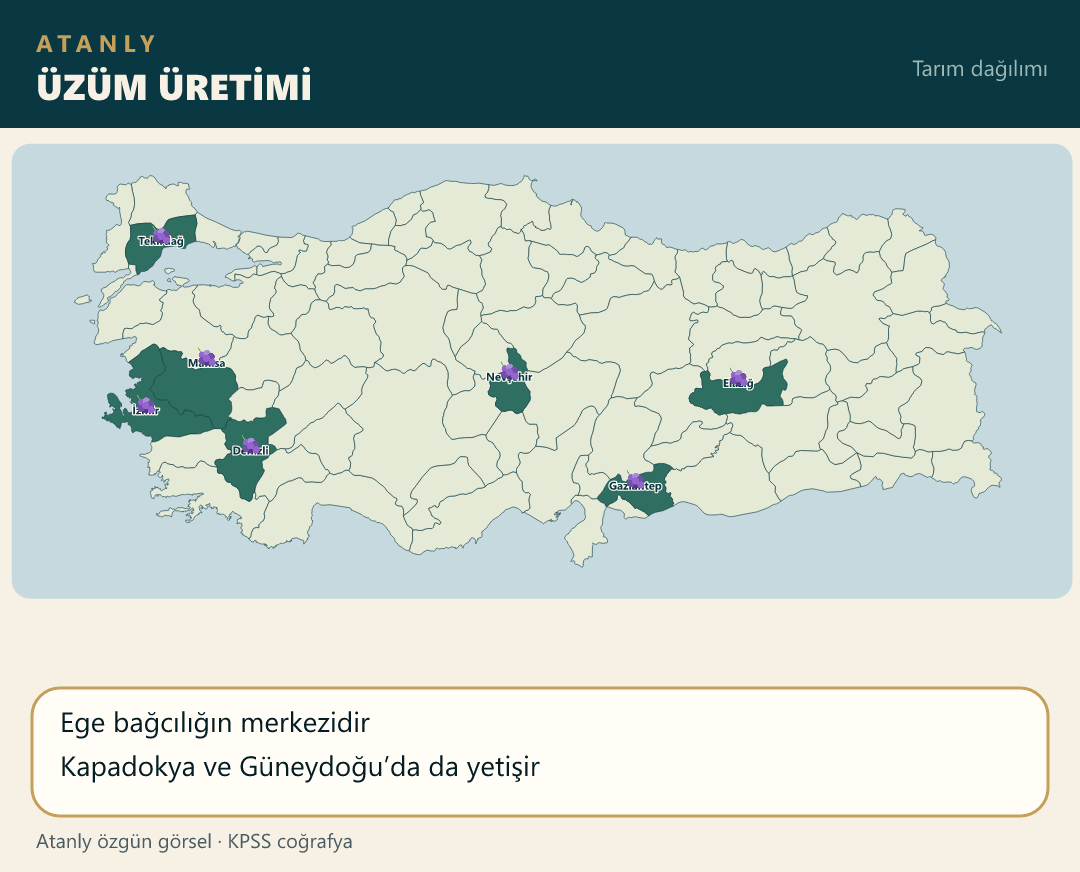
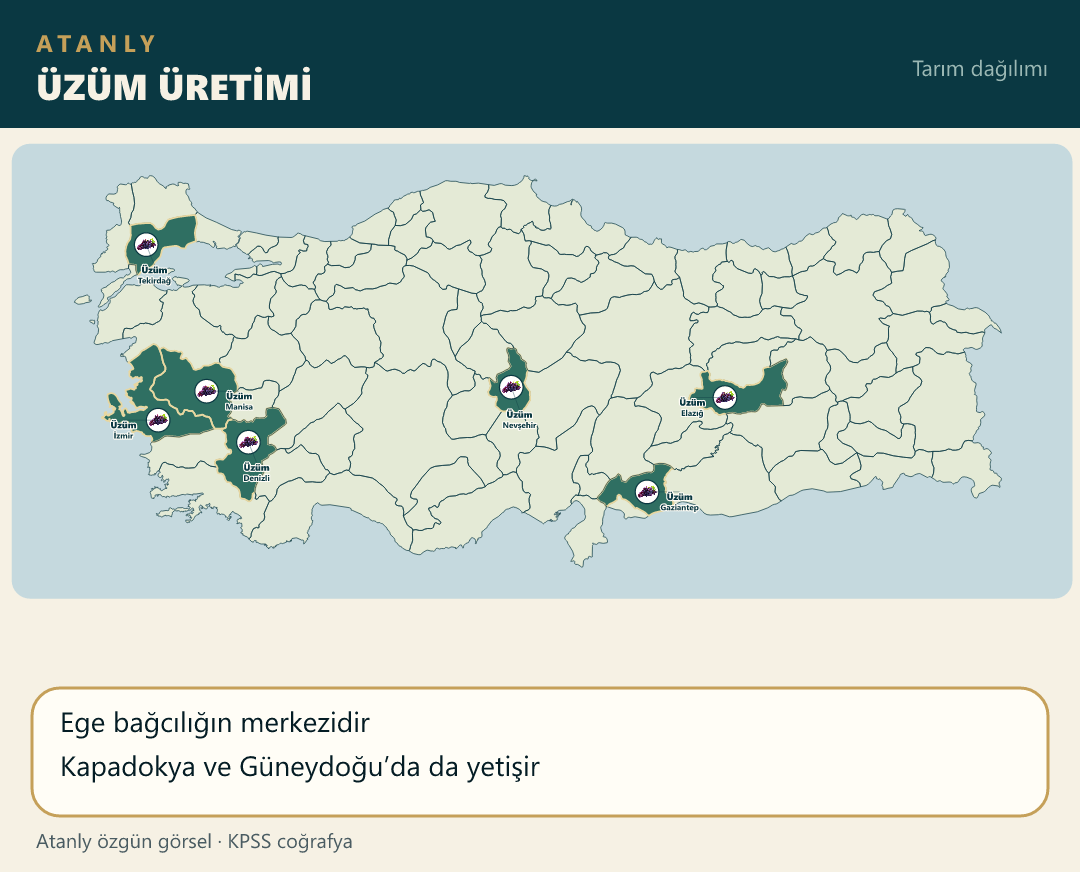
Place the grape photo on the production provinces' land-center pins.

diff --git a/scripts/build-atanly-maps.js b/scripts/build-atanly-maps.js
@@ -624,7 +624,17 @@ function main() {
             ],
             facts: ["Sıcaklık ve sulama ister", "Çukurova ve Güneydoğu öne çıkar"] },
         { file: "zeytin.png", title: "ZEYTİN ÜRETİMİ", iller: ["Aydın", "İzmir", "Balıkesir", "Manisa", "Muğla", "Bursa", "Hatay", "Mersin", "Gaziantep"], facts: ["Akdeniz iklimi kıyı kuşağı", "Ege birinci sıradadır"] },
-        { file: "üzüm.png", title: "ÜZÜM ÜRETİMİ", iller: ["Manisa", "Denizli", "İzmir", "Nevşehir", "Elazığ", "Gaziantep", "Tekirdağ"], facts: ["Ege bağcılığın merkezidir", "Kapadokya ve Güneydoğu’da da yetişir"] },
+        { file: "üzüm.png", title: "ÜZÜM ÜRETİMİ", urun: "Üzüm",
+            noktalar: [
+                { il: "Manisa", ldx: 32, ldy: 8 },
+                { il: "Denizli", ldx: 8, ldy: 28 },
+                { il: "İzmir", ldx: -34, ldy: 8 },
+                { il: "Nevşehir", ldx: 8, ldy: 30 },
+                { il: "Elazığ", ldx: -32, ldy: 8 },
+                { il: "Gaziantep", ldx: 32, ldy: 8 },
+                { il: "Tekirdağ", ldx: 8, ldy: 28 }
+            ],
+            facts: ["Ege bağcılığın merkezidir", "Kapadokya ve Güneydoğu’da da yetişir"] },
         { file: "mısır.png", title: "MISIR ÜRETİMİ", urun: "Mısır",
             noktalar: [
                 { il: "Adana", ldx: -34, ldy: 8 },

diff --git a/notlar/cografya-19-not.js b/notlar/cografya-19-not.js
@@ -2,7 +2,7 @@
 (function () {
     function harita(src, alt) {
         return '<div class="mt-4 overflow-hidden rounded-xl border border-blue-200 dark:border-blue-700/50 bg-white dark:bg-slate-800 p-2">' +
-            '<img src="./src/img/' + src + '?v=38" alt="' + alt + ' Haritası" class="w-full h-auto rounded-lg object-contain" loading="lazy">' +
+            '<img src="./src/img/' + src + '?v=39" alt="' + alt + ' Haritası" class="w-full h-auto rounded-lg object-contain" loading="lazy">' +
             "</div>";
     }
 

diff --git a/index.html b/index.html
@@ -117,7 +117,7 @@
     <script src="notlar/cografya-16-not.js?v=3"></script>
     <script src="notlar/cografya-17-not.js?v=3"></script>
     <script src="notlar/cografya-18-not.js?v=18"></script>
-    <script src="notlar/cografya-19-not.js?v=34"></script>
+    <script src="notlar/cografya-19-not.js?v=35"></script>
     <script src="notlar/cografya-20-not.js?v=1"></script>
     <script src="notlar/cografya-21-not.js?v=32"></script>
     <script src="notlar/cografya-22-not.js?v=1"></script>
